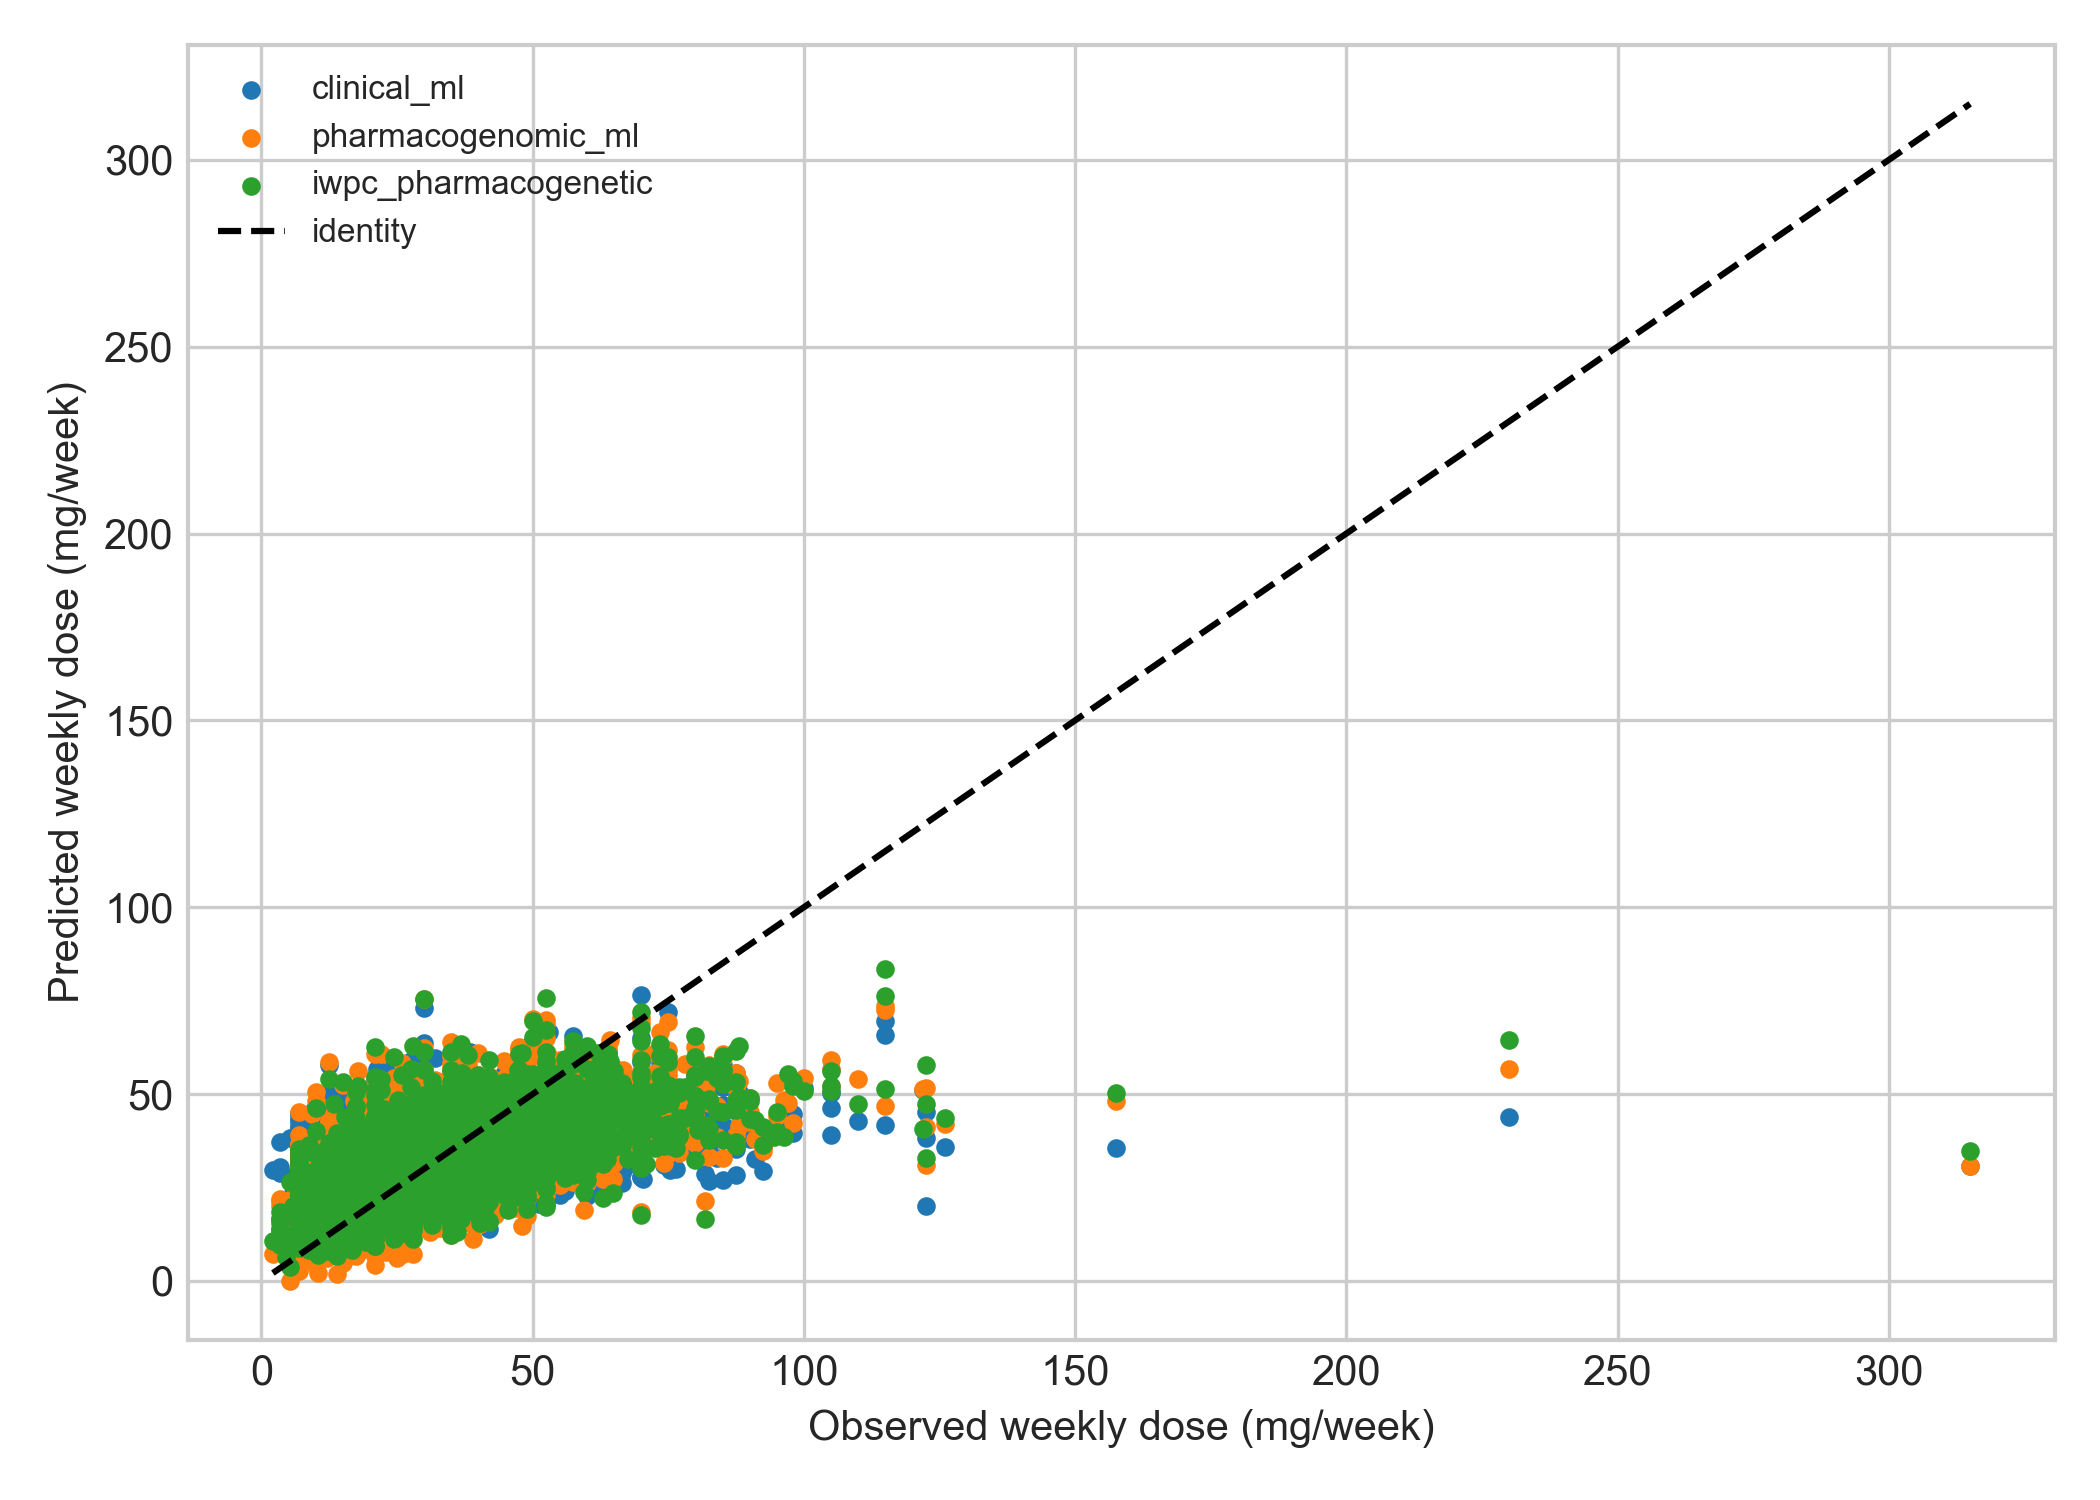
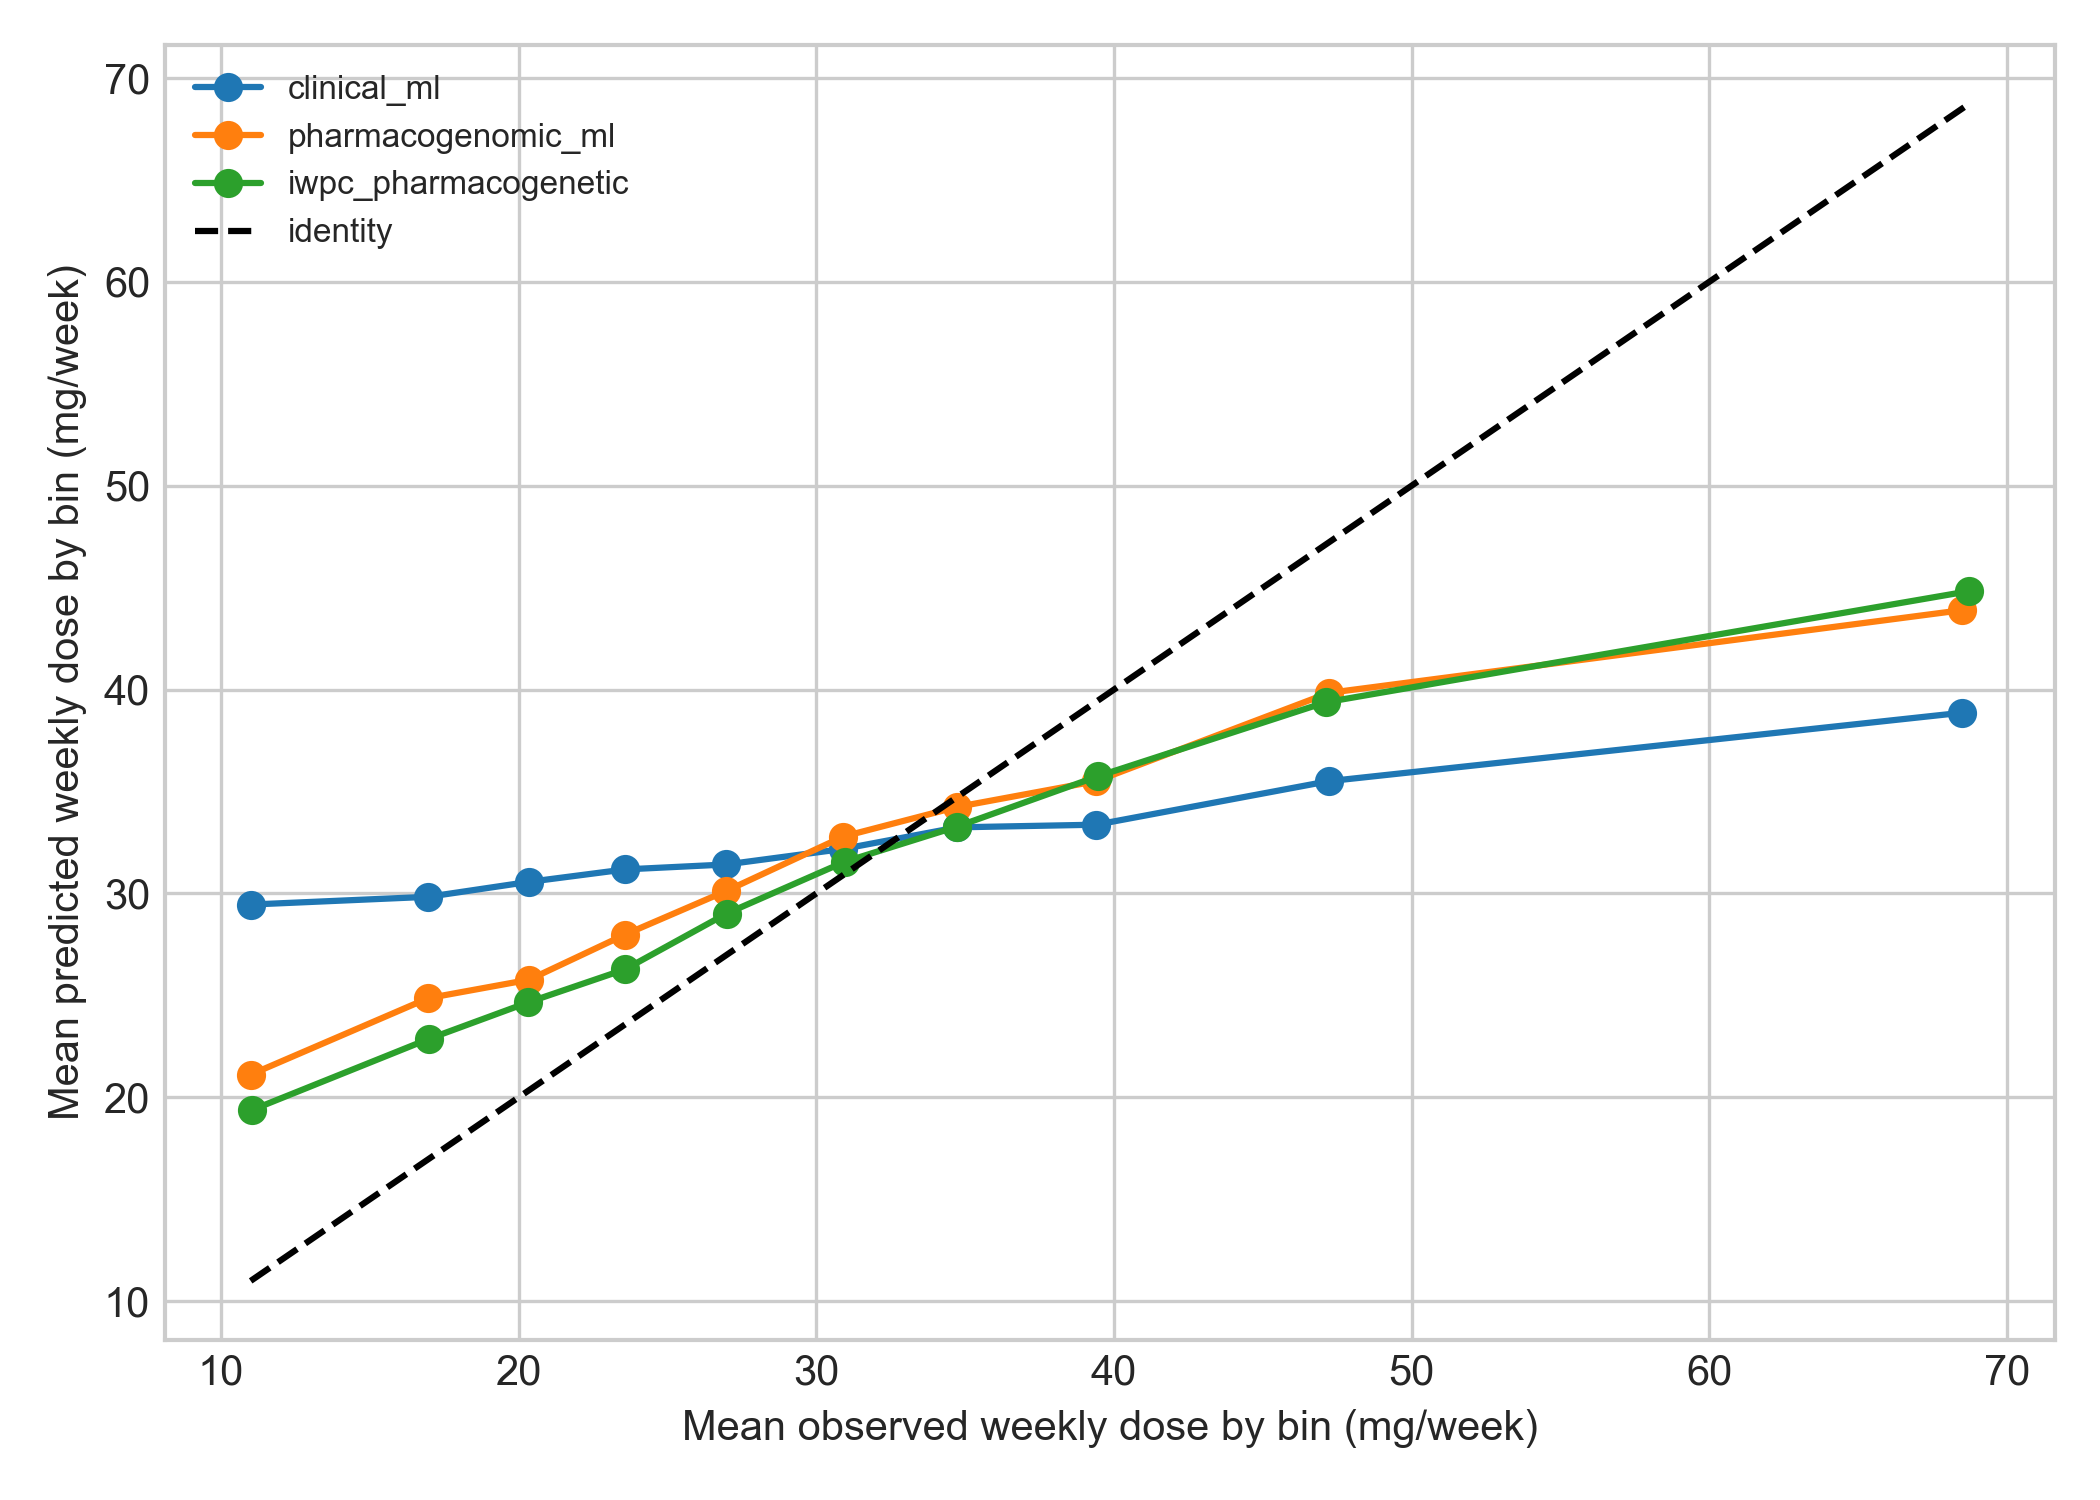
docs: publish aggregate calibration report

diff --git a/results/README.md b/results/README.md
@@ -39,6 +39,12 @@ analysis artifacts exist. FeatRanker importances are noncausal, associational, a
 correlation-sensitive. The random-CV analysis is an optimism comparator, not primary evidence;
 the site-held-out analysis remains primary.
 
+The held-out ranked-subset metrics evaluate a nested fold-wise ranking procedure; outer folds may
+select different feature blocks. They are not performance of the static full-cohort refit.
+Final artifact label: `pharmacogenomic_ranked`. Final artifact inputs: `vkorc1`, `weight_kg`, `age_decade`, `cyp2c9_group`, `height_cm`.
[1 lines of base64/hex data omitted]
+
+
 ## Subgroup and site audit
 Subgroup, site, and dose-category metrics are suppressed when n < 30. Race is an audit field,
 not a learned input.
